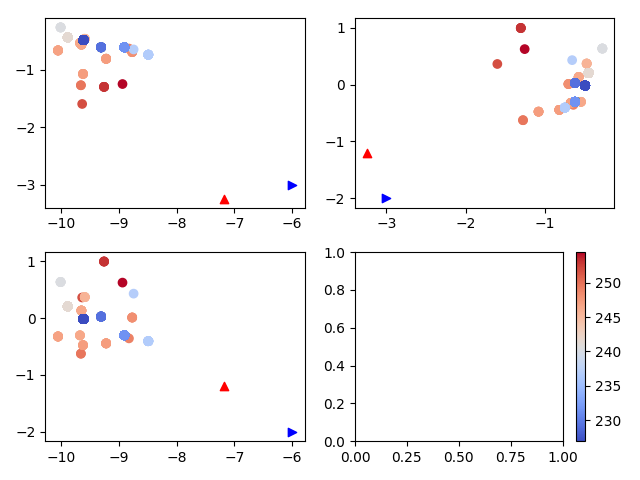
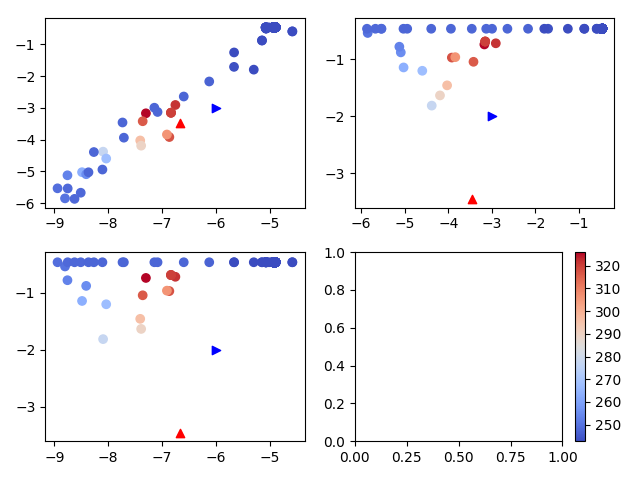
necro results 2

diff --git a/simplepso/examples/necro_pso.py b/simplepso/examples/necro_pso.py
@@ -143,7 +143,7 @@ def run_example():
     # We also must set bounds. This can be a single scalar or an array of len(start_position)
     optimizer.set_bounds(parameter_range=3)
     optimizer.set_speed(speed_min=-.5, speed_max=.5)
-    optimizer.run(num_particles=50, num_iterations=1000)
+    optimizer.run(num_particles=25, num_iterations=1000)
     print('whatever')
     if plot:
         display(start_position, optimizer.best)
